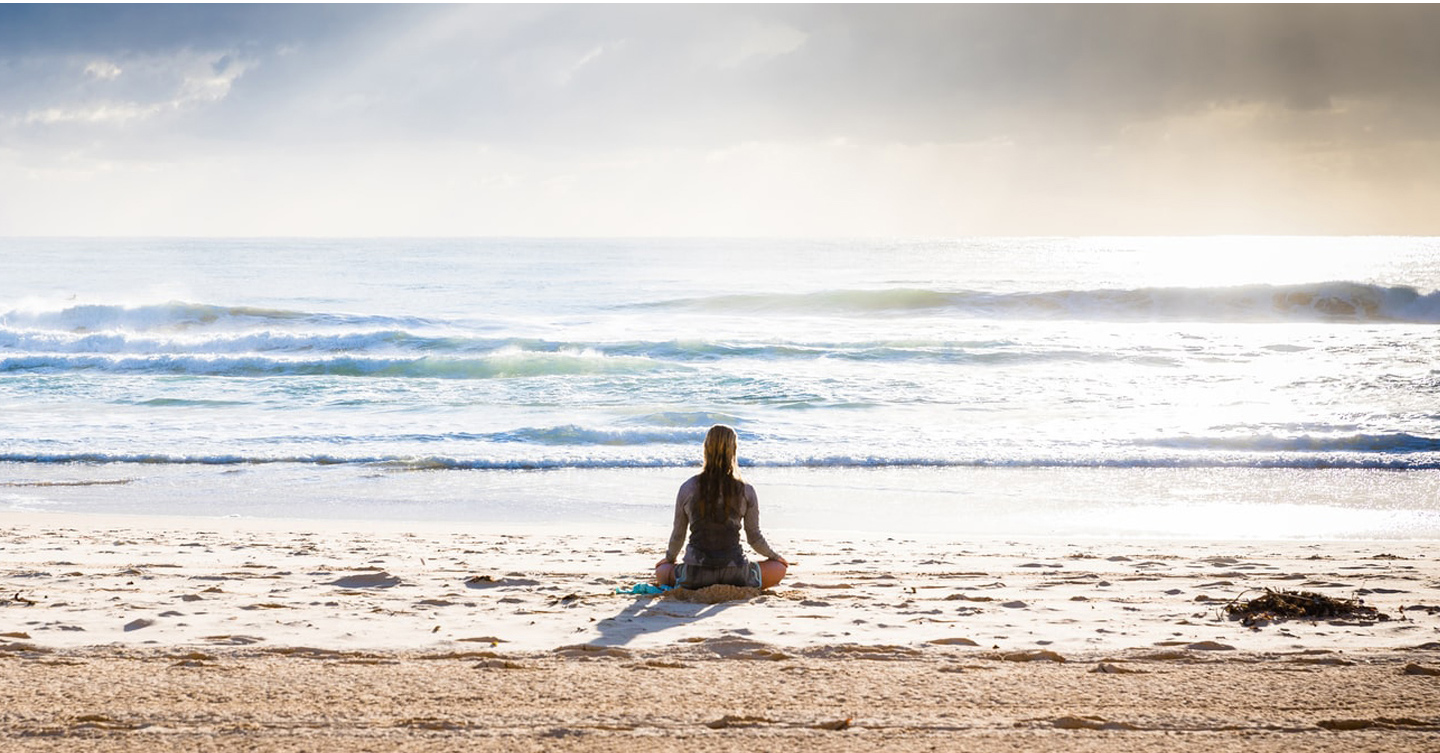
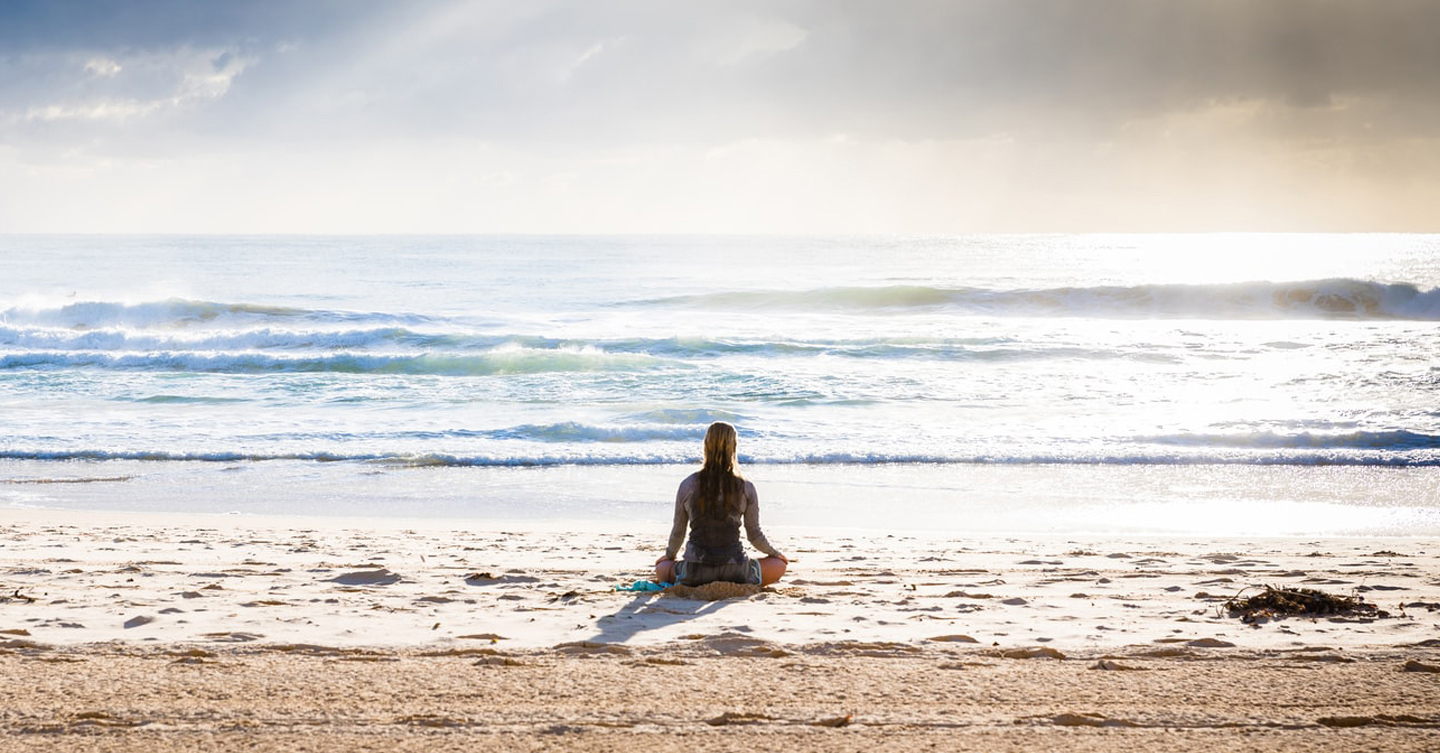
technically responsive down to iphone 5

Changed region(s): [[0.0, 0.3054, 1.0, 1.0], [0.0, 0.0, 1.0, 0.0305], [0.75, 0.5193, 0.8125, 0.5498]]

diff --git a/style.css b/style.css
@@ -283,3 +283,66 @@ button{
     justify-content: space-between;
     align-items: center;
 }
+
+@media only screen and (max-width: 560px) {
+
+    .header{
+        padding: 0 2rem;
+    }
+
+    .header img{
+        max-width: 75%
+    }
+
+    .header i{
+        font-size: 2.5rem;
+    }
+
+    .hero h1{
+        margin-top: 100px;
+        text-align: center;
+        padding: 2rem;
+    }
+
+    .courseInfo{
+        padding: 2rem 1rem;
+    }
+
+    .bookIcon img{
+        width: 100px;
+    }
+
+    .bookIcon h3{
+        font-size: 1.3rem;
+    }
+
+    button{
+        width: 120px;
+        font-size: 1rem;
+    }
+
+    h2{
+        font-size: 28px;
+    }
+
+    h4{
+        font-size: 35px;
+    }
+
+    .introductionHeader img{
+        width: 80%;
+        margin-left: -2rem;
+    }
+
+    .contact{
+        justify-content: center;
+    }
+
+    .contactRow1{
+        text-align: center;
+        margin-bottom: 3rem;
+    }
+    .iconWrapper{
+        width: 280px;
+    }
+}

diff --git a/style.desktop.css b/style.desktop.css
@@ -1,7 +1,12 @@
 @media only screen and (min-width: 1140px) {
 
     .hero{
-        background-image: url('./images/hero.desktop.jpg')
+        background-image: url('./images/hero.desktop.jpg');
+        height:750px;
+    }
+
+    .hero h1{
+        margin-top: 180px;
     }
 
     .contentWrapper{
@@ -33,4 +38,10 @@
         grid-template-columns: 380px;
     }
 
+    .contact{
+        padding: 3rem 150px;
+    }
+    .footer{
+        padding: 0 150px;
+    }
 }

diff --git a/style.pad.css b/style.pad.css
@@ -1,4 +1,4 @@
-@media only screen and (min-width: 1000px) {
+@media only screen and (min-width: 970px) {
 
     h1{
         font-size: 46px;
